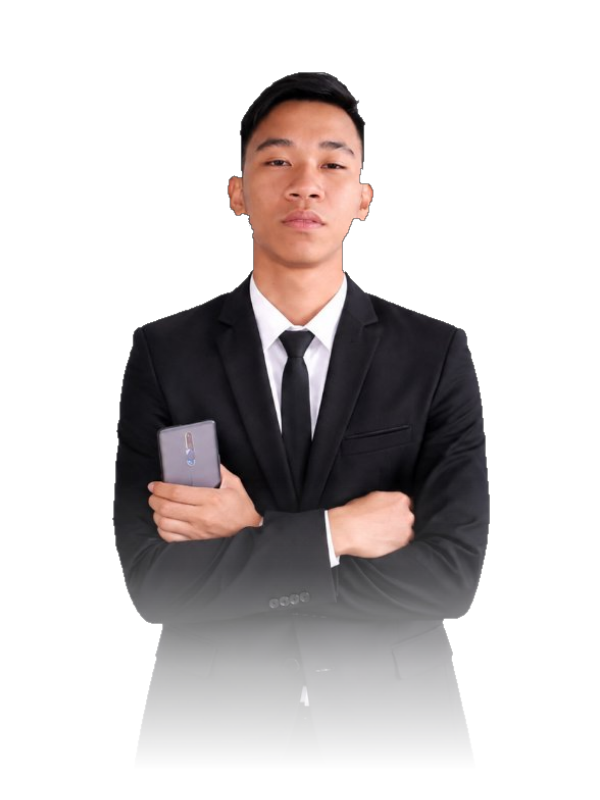
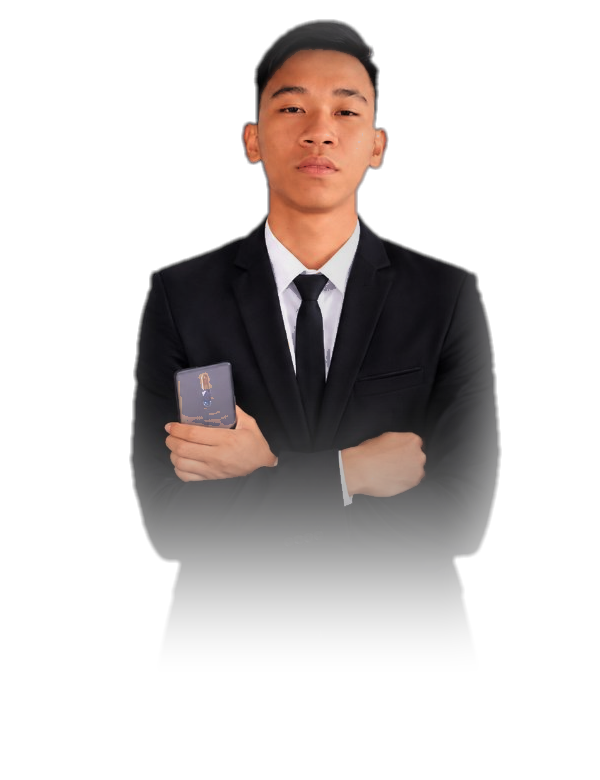
Refine Ar-jay portrait with smooth blended chiaroscuro studio lighting matching reference photo

diff --git a/portfolio/components/SmokeAtmosphere.tsx b/portfolio/components/SmokeAtmosphere.tsx
@@ -72,68 +72,55 @@ export default function SmokeAtmosphere() {
     const ribbons: SmokeRibbon[] = [
       {
         imgIndex: 0,
-        x: width * 0.1,
-        y: height * 0.42,
-        vx: 0.35, // slow, graceful left-to-right drift
-        width: 1150,
-        height: 640,
-        alpha: 0.32,
-        waveSpeed: 0.008,
-        waveAmp: 30,
+        x: width * 0.12,
+        y: height * 0.45,
+        vx: 0.25,
+        width: 1050,
+        height: 600,
+        alpha: 0.18,
+        waveSpeed: 0.007,
+        waveAmp: 25,
         phase: 0,
-        mouseSens: 0.03,
+        mouseSens: 0.02,
       },
       {
         imgIndex: 1,
-        x: width * 0.85,
-        y: height * 0.35,
-        vx: -0.28, // counter-drift right-to-left
-        width: 1250,
-        height: 680,
-        alpha: 0.28,
-        waveSpeed: 0.007,
-        waveAmp: 35,
+        x: width * 0.88,
+        y: height * 0.38,
+        vx: -0.22,
+        width: 1100,
+        height: 620,
+        alpha: 0.16,
+        waveSpeed: 0.006,
+        waveAmp: 30,
         phase: Math.PI * 0.7,
-        mouseSens: -0.04,
+        mouseSens: -0.025,
       },
       {
         imgIndex: 0,
-        x: width * 0.45,
-        y: height * 0.58,
-        vx: 0.22,
-        width: 1350,
-        height: 720,
-        alpha: 0.25,
-        waveSpeed: 0.006,
-        waveAmp: 25,
-        phase: Math.PI * 1.3,
-        mouseSens: 0.025,
-      },
-      {
-        imgIndex: 1,
-        x: width * 0.25,
-        y: height * 0.22,
-        vx: -0.42,
+        x: width * 0.2,
+        y: height * 0.65,
+        vx: 0.18,
         width: 950,
         height: 520,
-        alpha: 0.22,
-        waveSpeed: 0.011,
-        waveAmp: 40,
-        phase: Math.PI * 0.4,
-        mouseSens: -0.05,
+        alpha: 0.14,
+        waveSpeed: 0.005,
+        waveAmp: 20,
+        phase: Math.PI * 1.3,
+        mouseSens: 0.015,
       },
       {
-        imgIndex: 0,
-        x: width * 0.7,
-        y: height * 0.65,
-        vx: 0.3,
-        width: 1050,
-        height: 580,
-        alpha: 0.24,
-        waveSpeed: 0.009,
-        waveAmp: 32,
-        phase: Math.PI * 1.8,
-        mouseSens: 0.035,
+        imgIndex: 1,
+        x: width * 0.82,
+        y: height * 0.7,
+        vx: -0.2,
+        width: 980,
+        height: 540,
+        alpha: 0.15,
+        waveSpeed: 0.008,
+        waveAmp: 22,
+        phase: Math.PI * 0.4,
+        mouseSens: -0.02,
       },
     ];
 
@@ -194,6 +181,31 @@ export default function SmokeAtmosphere() {
         ctx.drawImage(img, -r.width / 2, -r.height / 2, r.width, r.height);
         ctx.restore();
       }
+
+      // Smoothly carve out the center column where Ar-jay's portrait stands
+      // so smoke NEVER crosses his face, collar, or suit!
+      const clearX = width * 0.5;
+      const clearY = height * 0.46;
+      const clearRadiusX = Math.min(width * 0.24, 280);
+      const clearRadiusY = Math.min(height * 0.48, 380);
+
+      ctx.globalCompositeOperation = 'destination-out';
+      const clearGrad = ctx.createRadialGradient(
+        clearX,
+        clearY,
+        clearRadiusX * 0.25,
+        clearX,
+        clearY,
+        clearRadiusX
+      );
+      clearGrad.addColorStop(0, 'rgba(0, 0, 0, 1.0)');
+      clearGrad.addColorStop(0.65, 'rgba(0, 0, 0, 0.85)');
+      clearGrad.addColorStop(1, 'rgba(0, 0, 0, 0.0)');
+
+      ctx.fillStyle = clearGrad;
+      ctx.beginPath();
+      ctx.ellipse(clearX, clearY, clearRadiusX, clearRadiusY, 0, 0, Math.PI * 2);
+      ctx.fill();
 
       ctx.globalCompositeOperation = 'source-over';
       animationFrameId = requestAnimationFrame(render);

diff --git a/portfolio/app/page.tsx b/portfolio/app/page.tsx
@@ -333,14 +333,14 @@ export default function PortfolioPage() {
 
           {/* ----------------- CENTER COLUMN: PORTRAIT IMAGE ----------------- */}
           <div className="lg:col-span-4 flex items-center justify-center order-1 lg:order-2 relative">
-            <div className="relative w-72 sm:w-84 md:w-96 lg:w-[420px] aspect-[3/4] max-h-[580px] [mask-image:linear-gradient(to_bottom,black_60%,transparent_98%)] [-webkit-mask-image:linear-gradient(to_bottom,black_60%,transparent_98%)]">
+            <div className="relative w-72 sm:w-84 md:w-96 lg:w-[440px] aspect-[3/4] max-h-[620px]">
               <Image
-                src="/images/arjay-portrait-transparent.png?v=4"
+                src="/images/arjay-cinematic-portrait.png?v=chiaroscuro_v5"
                 alt="Ar-jay Tabangin - Developer & UI/UX Designer"
                 fill
                 priority
                 unoptimized
-                className="object-contain object-top drop-shadow-[0_20px_40px_rgba(0,0,0,0.9)] filter brightness-[1.02] contrast-[1.02]"
+                className="object-contain object-top"
               />
             </div>
           </div>
